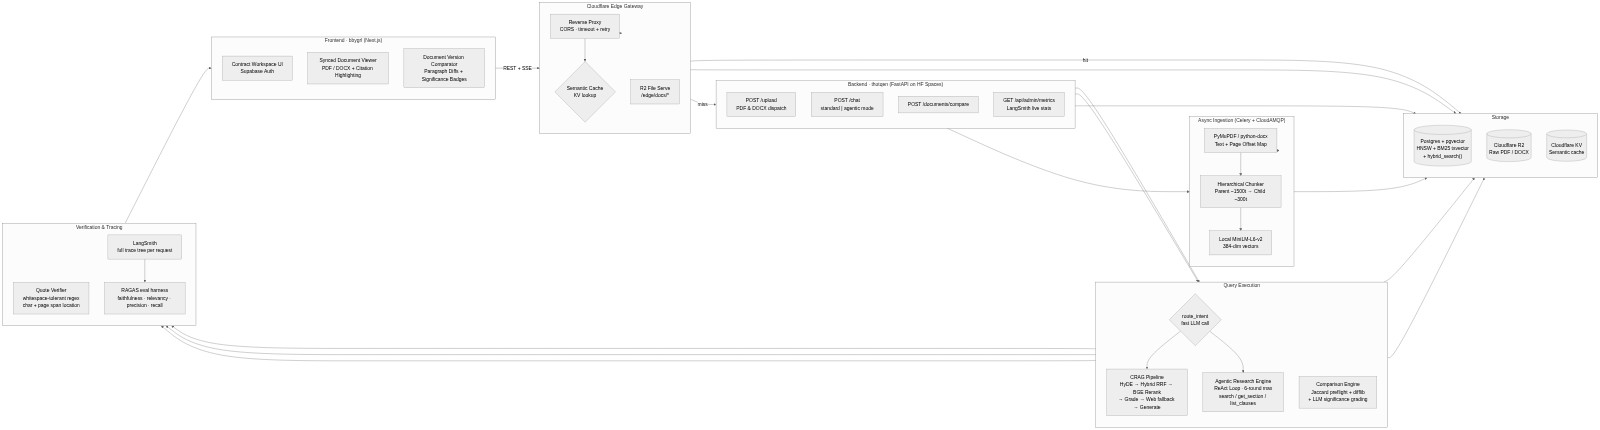
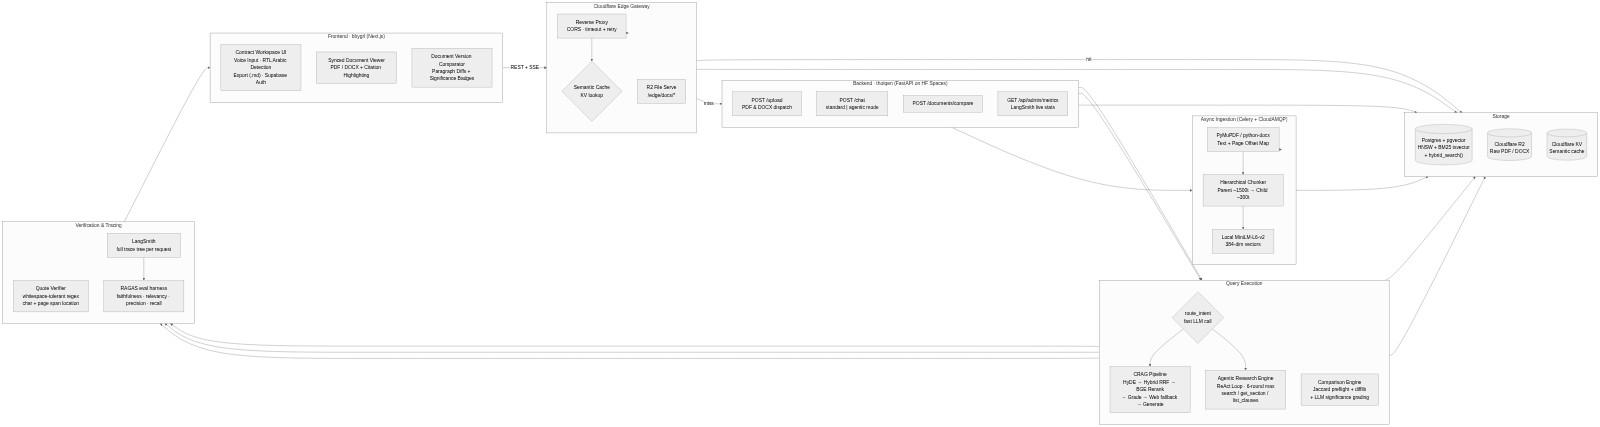
feat: add reversible PII anonymizer, /anonymize endpoints, and update architecture diagrams

diff --git a/app/services/anonymizer.py b/app/services/anonymizer.py
@@ -1,0 +1,154 @@
+"""
+PII Anonymization & De-anonymization Service for Legal Documents.
+
+Consistently replaces sensitive entity types (names, emails, phones,
+corporate entities, identification numbers) with deterministic placeholders
+like [PERSON_1], [ORG_1], [EMAIL_1], [PHONE_1], while maintaining a
+strict, reversible bidirectional mapping.
+"""
+
+import re
+from typing import Dict, Tuple, List, Any
+
+
+class PIIAnonymizer:
+    # Common legal company suffixes
+    ORG_PATTERN = re.compile(
+        r'\b([A-Z][A-Za-z0-9&.,\- ]+?\s+(?:Inc\.?|LLC|Ltd\.?|Corp\.?|Corporation|Company|LLP|GmbH|PLC|Pvt\.?\s*Ltd\.?))\b'
+    )
+    
+    EMAIL_PATTERN = re.compile(
+        r'\b[A-Za-z0-9._%+-]+@[A-Za-z0-9.-]+\.[A-Z|a-z]{2,7}\b'
+    )
+    
+    PHONE_PATTERN = re.compile(
+        r'(?:\+?\d{1,3}[-.\s]?)?\(?\d{2,4}\)?[-.\s]?\d{3,4}[-.\s]?\d{3,5}\b'
+    )
+    
+    # Honorifics followed by Capitalized Names (e.g., Mr. John Smith, Dr. Alice Doe)
+    PERSON_HONORIFIC_PATTERN = re.compile(
+        r'\b(?:Mr\.|Mrs\.|Ms\.|Dr\.|Prof\.|Adv\.|Judge|Justice)\s+([A-Z][a-z]+(?:\s+[A-Z][a-z]+){1,2})\b'
+    )
+    
+    # Legal party introductory pattern (e.g., "between Alice Johnson and Bob Smith")
+    LEGAL_PARTY_PATTERN = re.compile(
+        r'\b(?:by and between|entered into by|represented by)\s+([A-Z][a-z]+(?:\s+[A-Z][a-z]+)+)\b'
+    )
+    
+    # Generic SSN / Tax ID patterns
+    TAX_ID_PATTERN = re.compile(
+        r'\b(?:\d{3}-\d{2}-\d{4}|\d{2}-\d{7})\b'
+    )
+
+    @classmethod
+    def anonymize(cls, text: str) -> Tuple[str, Dict[str, str], Dict[str, List[str]]]:
+        """
+        Anonymizes the input text and returns:
+        1. Anonymized text with placeholders
+        2. Reversible mapping {placeholder: original_text}
+        3. Breakdown of detected entities by category
+        """
+        mapping: Dict[str, str] = {}
+        reverse_seen: Dict[str, str] = {}  # original -> placeholder (for consistent replacement)
+        entities: Dict[str, List[str]] = {
+            "emails": [],
+            "phones": [],
+            "organizations": [],
+            "persons": [],
+            "tax_ids": []
+        }
+        
+        counts = {
+            "EMAIL": 0,
+            "PHONE": 0,
+            "ORG": 0,
+            "PERSON": 0,
+            "TAX_ID": 0
+        }
+
+        # 1. Mask Emails
+        def replace_email(match: re.Match) -> str:
+            val = match.group(0)
+            if val not in reverse_seen:
+                counts["EMAIL"] += 1
+                token = f"[EMAIL_{counts['EMAIL']}]"
+                reverse_seen[val] = token
+                mapping[token] = val
+                entities["emails"].append(val)
+            return reverse_seen[val]
+
+        text = cls.EMAIL_PATTERN.sub(replace_email, text)
+
+        # 2. Mask Phone Numbers
+        def replace_phone(match: re.Match) -> str:
+            val = match.group(0)
+            if len(re.sub(r'\D', '', val)) >= 7:  # Avoid matching short section numbers
+                if val not in reverse_seen:
+                    counts["PHONE"] += 1
+                    token = f"[PHONE_{counts['PHONE']}]"
+                    reverse_seen[val] = token
+                    mapping[token] = val
+                    entities["phones"].append(val)
+                return reverse_seen[val]
+            return val
+
+        text = cls.PHONE_PATTERN.sub(replace_phone, text)
+
+        # 3. Mask Tax IDs / SSNs
+        def replace_tax_id(match: re.Match) -> str:
+            val = match.group(0)
+            if val not in reverse_seen:
+                counts["TAX_ID"] += 1
+                token = f"[TAX_ID_{counts['TAX_ID']}]"
+                reverse_seen[val] = token
+                mapping[token] = val
+                entities["tax_ids"].append(val)
+            return reverse_seen[val]
+
+        text = cls.TAX_ID_PATTERN.sub(replace_tax_id, text)
+
+        # 4. Mask Organizations
+        def replace_org(match: re.Match) -> str:
+            val = match.group(1).strip()
+            if val not in reverse_seen:
+                counts["ORG"] += 1
+                token = f"[ORG_{counts['ORG']}]"
+                reverse_seen[val] = token
+                mapping[token] = val
+                entities["organizations"].append(val)
+            return reverse_seen[val]
+
+        text = cls.ORG_PATTERN.sub(replace_org, text)
+
+        # 5. Mask Persons (with honorifics)
+        def replace_person(match: re.Match) -> str:
+            val = match.group(1).strip()
+            if val not in reverse_seen:
+                counts["PERSON"] += 1
+                token = f"[PERSON_{counts['PERSON']}]"
+                reverse_seen[val] = token
+                mapping[token] = val
+                entities["persons"].append(val)
+            # Retain the honorific or wrap
+            prefix = match.group(0).split()[0]
+            return f"{prefix} {reverse_seen[val]}"
+
+        text = cls.PERSON_HONORIFIC_PATTERN.sub(replace_person, text)
+
+        return text, mapping, entities
+
+    @classmethod
+    def deanonymize(cls, text: str, mapping: Dict[str, str]) -> str:
+        """
+        Reverses placeholders in anonymized text back to original values.
+        """
+        if not mapping:
+            return text
+        
+        # Sort tokens by length descending to prevent substring collisions
+        sorted_tokens = sorted(mapping.keys(), key=len, reverse=True)
+        pattern = re.compile('|'.join(re.escape(k) for k in sorted_tokens))
+        return pattern.sub(lambda m: mapping.get(m.group(0), m.group(0)), text)
+
+
+anonymizer = PIIAnonymizer()

diff --git a/app/routes.py b/app/routes.py
@@ -347,6 +347,37 @@ def ask(
     return StreamingResponse(response_stream, media_type="text/plain")
 
 
+class AnonymizeRequest(BaseModel):
+    text: str
+
+
+class DeanonymizeRequest(BaseModel):
+    text: str
+    mapping: dict[str, str]
+
+
+@router.post("/anonymize")
+def anonymize_text(body: AnonymizeRequest):
+    """Reversibly anonymizes PII (names, emails, phones, tax IDs, orgs) in contract text."""
+    from app.services.anonymizer import anonymizer
+    anon_text, mapping, entities = anonymizer.anonymize(body.text)
+    return {
+        "anonymized_text": anon_text,
+        "mapping": mapping,
+        "entities": entities
+    }
+
+
+@router.post("/deanonymize")
+def deanonymize_text(body: DeanonymizeRequest):
+    """Restores placeholders to original entity values using reversible mapping."""
+    from app.services.anonymizer import anonymizer
+    restored = anonymizer.deanonymize(body.text, body.mapping)
+    return {
+        "original_text": restored
+    }
+
+
 class ChatRequest(BaseModel):
     q: str
     session_id: str = "00000000-0000-0000-0000-000000000000"
@@ -355,6 +386,7 @@ class ChatRequest(BaseModel):
     # one attached document — ask_question() falls back to "standard"
     # otherwise rather than erroring.
     mode: str = "standard"
+    anonymize: bool = False
 
 
 @router.post("/chat")
@@ -366,9 +398,14 @@ def chat(
     if not body.q.strip():
         raise HTTPException(status_code=400, detail="Question cannot be empty.")
 
+    query_text = body.q
+    if body.anonymize:
+        from app.services.anonymizer import anonymizer
+        query_text, _, _ = anonymizer.anonymize(query_text)
+
     ensure_user(user_id, email=f"anon-{user_id}@thotqen.internal")
     response_stream = ask_question(
-        body.q, body.session_id, user_id=user_id, mode=body.mode,
+        query_text, body.session_id, user_id=user_id, mode=body.mode,
     )
     return StreamingResponse(response_stream, media_type="text/plain")
 

diff --git a/scripts/render_diagrams.py b/scripts/render_diagrams.py
@@ -26,7 +26,7 @@ ARCH_OVERVIEW = """
 flowchart LR
     subgraph Frontend["Frontend · bbygrl (Next.js)"]
         direction TB
-        UI["Contract Workspace UI\\nSupabase Auth"]
+        UI["Contract Workspace UI\\nVoice Input · RTL Arabic Detection\\nExport (.md) · Supabase Auth"]
         DocViewer["Synced Document Viewer\\nPDF / DOCX + Citation Highlighting"]
         DiffUI["Document Version Comparator\\nParagraph Diffs + Significance Badges"]
     end
@@ -99,7 +99,7 @@ flowchart LR
 # ── Diagram 2: Query Pipeline Detail ────────────────────────────────────────────
 PIPELINE_DETAIL = """
 flowchart TD
-    START(["User Question\\n+ attached document(s)"])
+    START(["User Question\\nVoice Speech or Text + attached document(s)"])
     INTENT{"route_intent\\nfast LLM call:\\ncheap or complex?\\nagentic mode on?"}
 
     START --> INTENT
@@ -145,7 +145,7 @@ flowchart TD
     end
 
     VERIFY["quote_verifier.py\\nWhitespace-tolerant regex per quote\\nChar offset + page span location\\nUnverified quotes flagged, not hidden"]
-    VERIFY --> STREAM["SSE stream to client\\nAnnotated answer + verified quote spans\\n+ tool call status events (agentic)"]
+    VERIFY --> STREAM["SSE Stream & Export\\nAnnotated answer + verified quote spans\\n+ tool call status events\\n+ Markdown export & audio read-aloud"]
 """
 
 if __name__ == "__main__":

diff --git a/ARCHITECTURE.md b/ARCHITECTURE.md
@@ -28,7 +28,7 @@ Next.js Client
 flowchart LR
     subgraph Frontend["Frontend · bbygrl (Next.js)"]
         direction TB
-        UI["Contract Workspace UI\nSupabase Auth"]
+        UI["Contract Workspace UI\nVoice Input · RTL Arabic Detection\nExport (.md) · Supabase Auth"]
         DocViewer["Synced Document Viewer\nPDF / DOCX + Citation Highlighting"]
         DiffUI["Document Version Comparator\nParagraph Diffs + Significance Badges"]
     end
